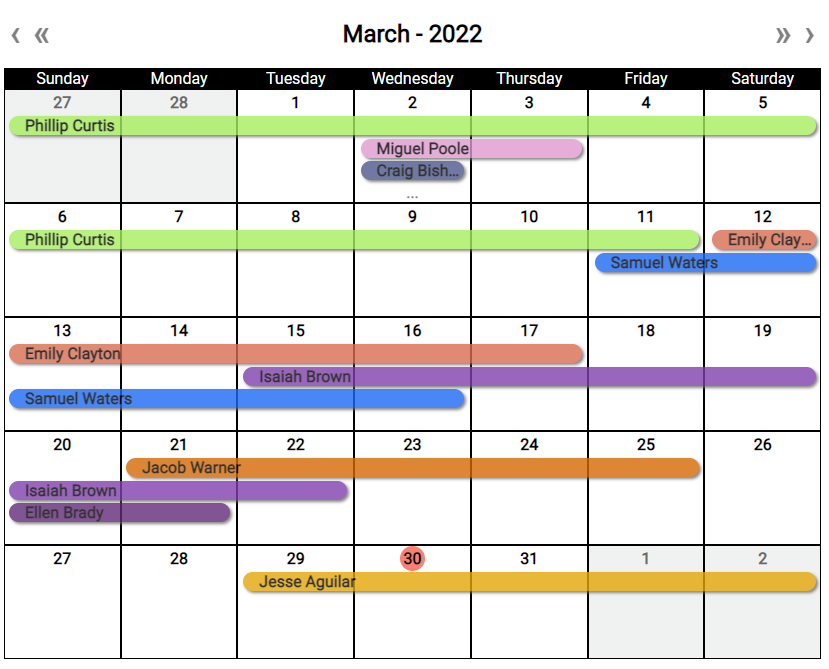
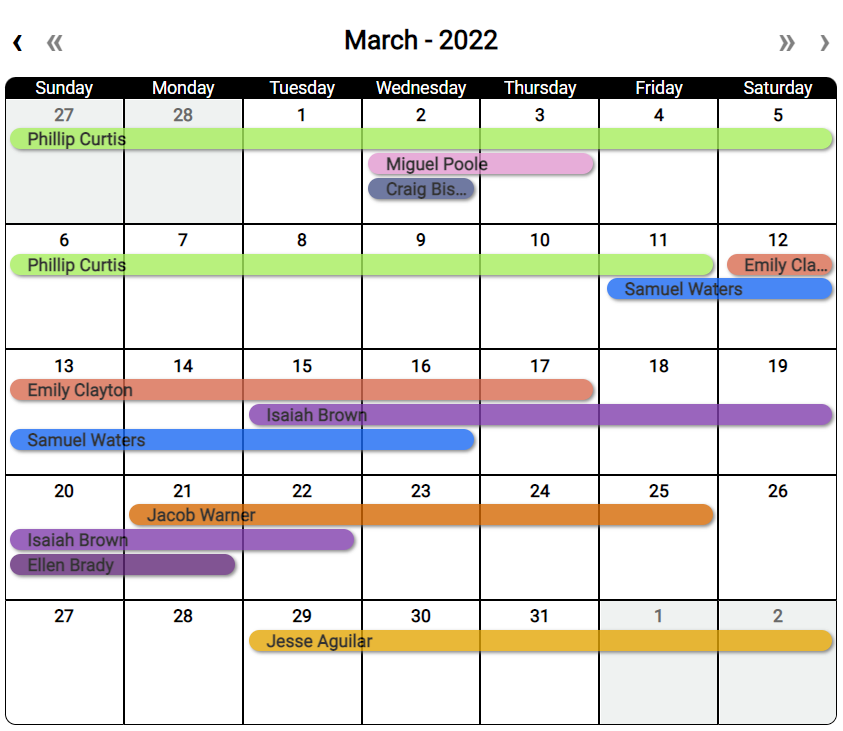
more css work, update preview image

Changed region(s): [[0.0, 0.0299, 0.9952, 1.0], [0.9349, 0.0299, 0.9952, 0.0598]]

diff --git a/src/themes/default.css b/src/themes/default.css
@@ -20,21 +20,37 @@
   border-radius: 10px 10px 0 0;
 }
 
-.schedulely
-  > .schedulely--week-container:last-child{
-  border-radius: 0 0 var(--schedulely-border-radius) var(--schedulely-border-radius);
+.schedulely > .schedulely--week-container:last-child {
+  border-radius: 0 0 var(--schedulely-border-radius)
+    var(--schedulely-border-radius);
 }
 
 .schedulely
   > .schedulely--week-container:last-child
   > .schedulely--week-layout
   > div:last-child {
-    border-radius: 0 0 var(--schedulely-border-radius) 0;
+  border-radius: 0 0 var(--schedulely-border-radius) 0;
+}
+
+.schedulely
+  > .schedulely--week-container:last-child
+  > .schedulely--week-layout
+  > div:last-child
+  > .schedulely--default-day {
+  border-radius: 0 0 var(--schedulely-border-radius) 0;
 }
 
 .schedulely
   > .schedulely--week-container:last-child
   > .schedulely--week-layout
   > div:first-child {
-    border-radius: 0 0 0 var(--schedulely-border-radius);
+  border-radius: 0 0 0 var(--schedulely-border-radius);
+}
+
+.schedulely
+  > .schedulely--week-container:last-child
+  > .schedulely--week-layout
+  > div:first-child
+  > .schedulely--default-day {
+  border-radius: 0 0 0 var(--schedulely-border-radius);
 }
